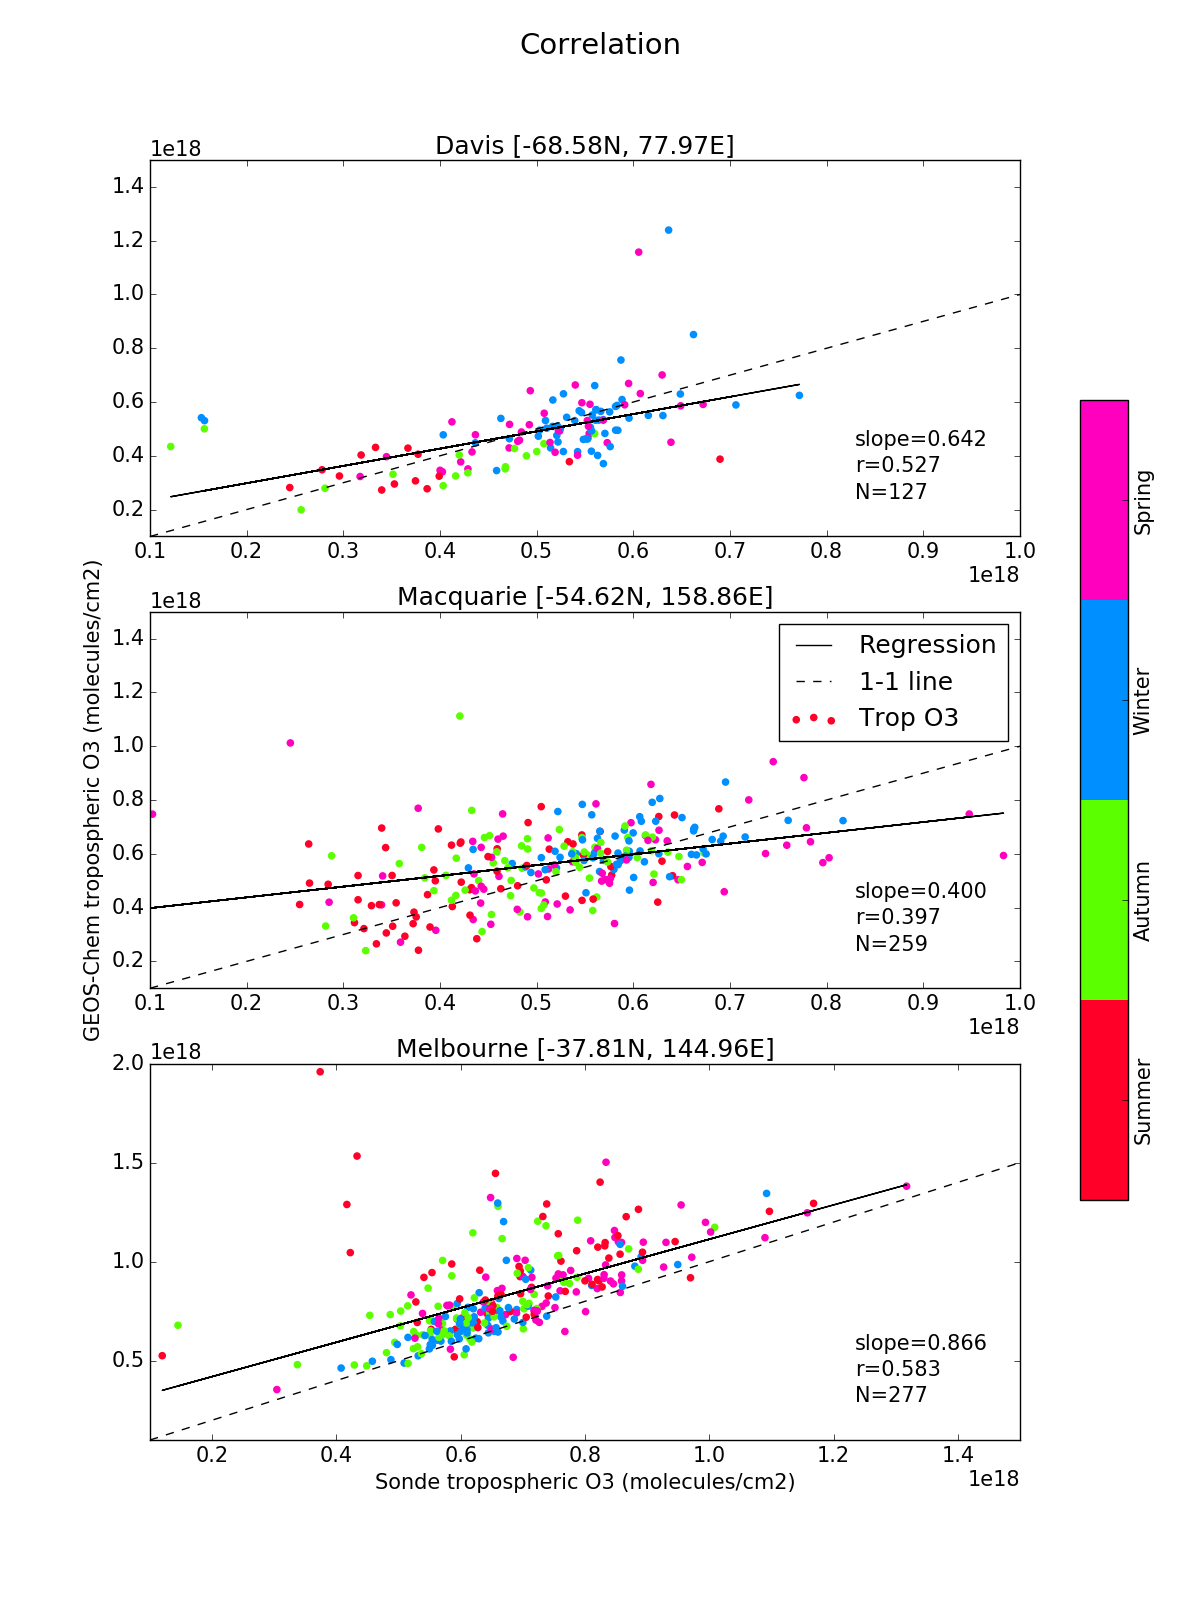
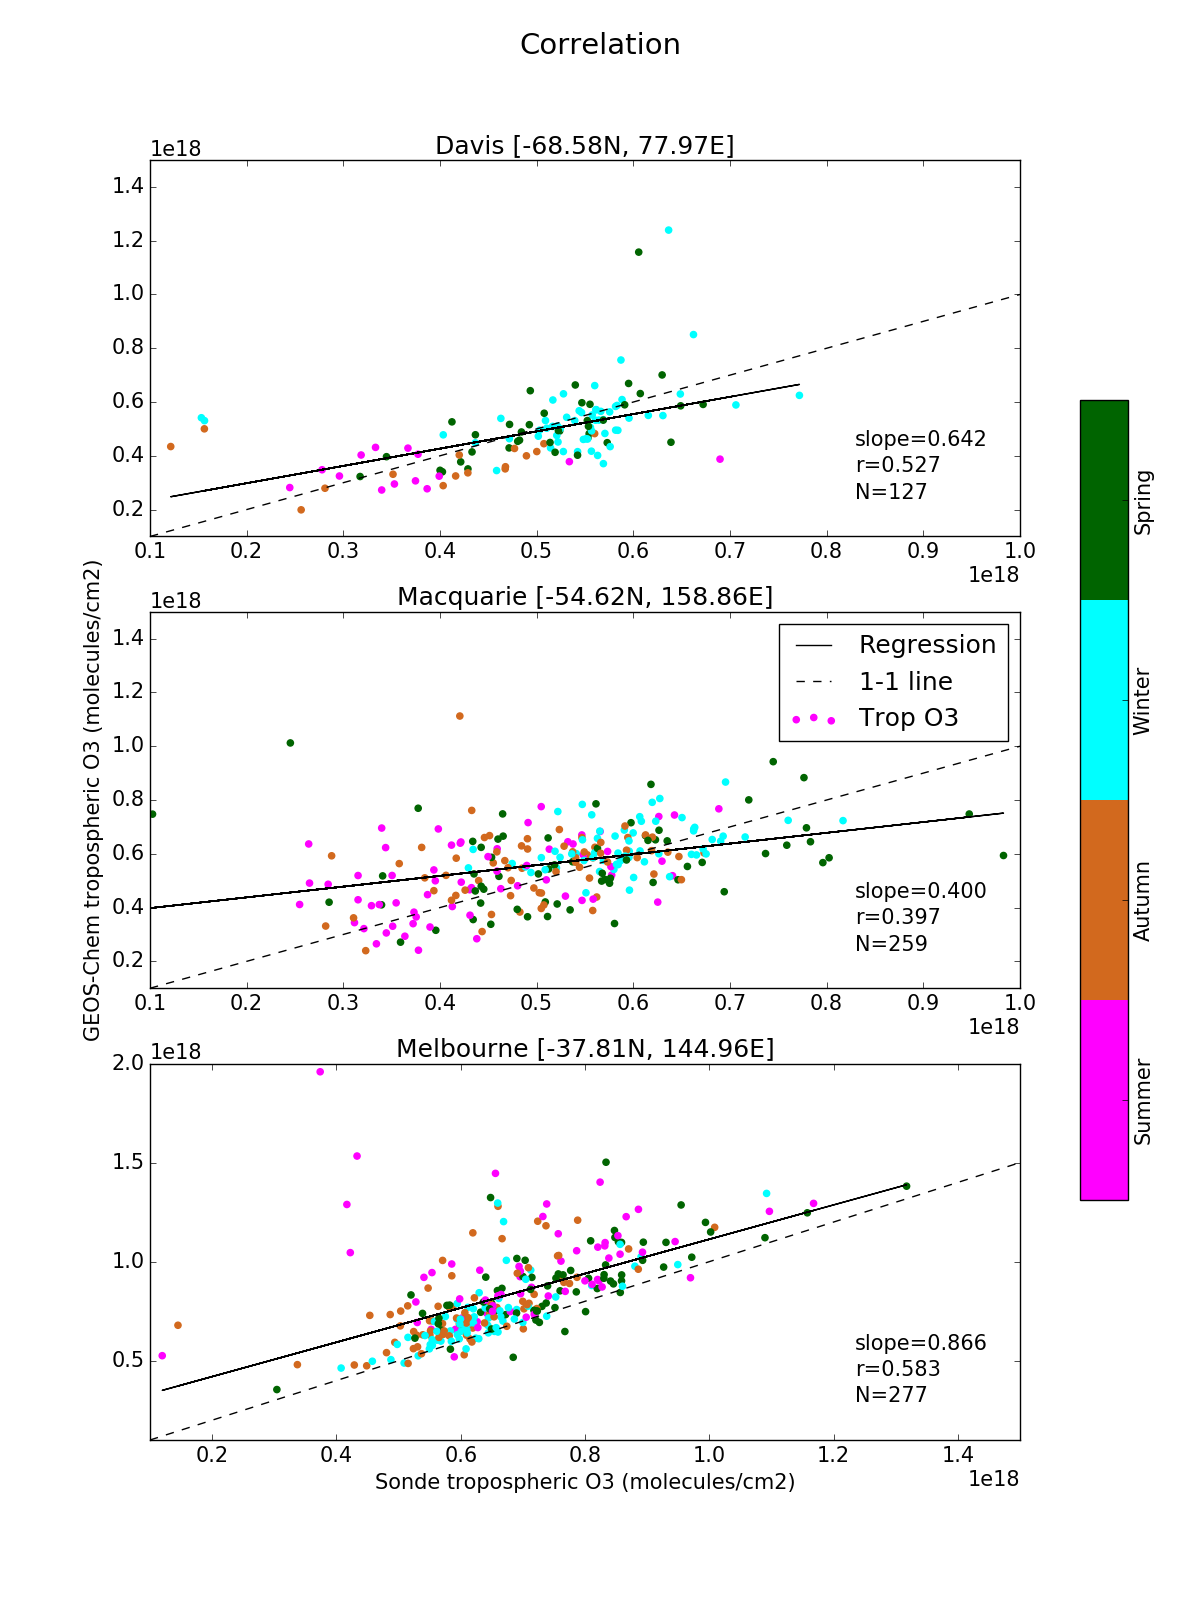
Seasonal colours corrected, monthly profiles combined for GC and Sondes

diff --git a/backup.exampine_stations.py b/backup.exampine_stations.py
@@ -21,9 +21,6 @@ import fio
 # set all fonts to 15
 matplotlib.rcParams.update({'font.size': 15})
 
-# seasonal colormap
-seasonal_cmap=matplotlib.colors.ListedColormap(['fuchsia','chocolate','cyan','darkgreen'])
-
 ###########################################################################
 #####################    Functions                         ################
 ###########################################################################
@@ -189,6 +186,7 @@ def time_series(outfile='images/StationSeries.png'):
         newylim= [1/2.69e16 * oldlim for oldlim in f3ax.get_ylim()]
         newax.set_ylim(newylim)
     
+    
     # set plot titles
     f3.suptitle('Tropospheric ozone column',fontsize=21)
     
@@ -256,11 +254,7 @@ def yearly_cycle(hour=None, outfile='images/Yearly_cycle.png'):
     print("Image saved to %s"%outfile)
     plt.close(f)
 
-###########################################################################
-#####################    Finished Functions                ################
-###########################################################################
-
-def monthly_profiles(hour=0):
+def monthly_GC_profiles(hour=None):
     '''
     Profile mean and std deviation for each month for each site
     If you only want to consider a particular hour then set the hour parameter
@@ -269,18 +263,11 @@ def monthly_profiles(hour=0):
     
     # read site data
     sites = [ fio.read_GC_station(p) for p in range(3) ]
-    o3sondes = [ fio.read_site(p) for p in range(3) ]
     
-    # some plot setups stuff
-    titles=np.array([['Dec','Jan','Feb'],['Mar','Apr','May'],['Jun','Jul','Aug'],['Sep','Oct','Nov']])
-    months=np.array([[11,0,1],[2,3,4],[5,6,7],[8,9,10]])
-    seasonalcolours=seasonal_cmap.colors
-    col={'GEOS':'black','Sonde':'maroon'} # colours for model vs sondes
     #for each station do this
-    # site,sonde=sites[1],o3sondes[1]
-    for site, sonde in zip(sites, o3sondes):
+    for site in sites:
         
-        # Set up plot axes
+        # Set up plot
         f, axes = plt.subplots(4,3, sharex=True, sharey=True, figsize=(16,16))
         axes[3,1].set_xlabel('Ozone (ppb)')
         xlim=[0,125]
@@ -291,88 +278,146 @@ def monthly_profiles(hour=0):
         
         # Grab Ozone
         O3 = site['O3']
-        s_O3 = np.array(sonde.o3ppbv)
-        
         # metres to kilometres
-        s_TP = np.array(sonde.tp) # sonde TP is already in km
         TP = site['TropopauseAltitude'] / 1000.0
         Z  = site['Altitudes']/1000.0 
-        s_Z  = np.array(sonde.gph) / 1000.0 
         Znew= np.linspace(0,14,100)
         # need to vertically bin the O3 profiles,
         # interpolated at 100 points up to 14km
         means=np.zeros([12,100])
         stds =np.zeros([12,100])
         TPm = np.zeros(12)
-        s_means=np.zeros([12,100])
-        s_stds =np.zeros([12,100])
-        s_TPm = np.zeros(12)
-        s_counts=np.zeros(12)
+        TPs = np.zeros(12)
         
         # bin data into 12 months
         allmonths=np.array([ d.month for d in site['Date'] ])
-        s_allmonths=np.array( [ d.month for d in sonde.dates ])
-        for month in range(12):
-            # find indices matching the current month
+        for month in range(12):            
             inds=np.where(allmonths == month+1)[0]
             if hour is not None:
                 allhours =np.array([ d.hour for d in site['Date'] ])
                 inds = np.where( (allmonths == month+1) * (allhours==hour) )[0]
-            s_inds=np.where(s_allmonths == month+1)[0]
-            n, s_n = len(inds), len(s_inds)
-            s_counts[month]=s_n
-            
             # each profile needs to be interpolated up to 14km
-            profs=np.zeros([n,100])
-            s_profs=np.zeros([s_n,100])
-            for i in range(n):
-                profs[i,:] = np.interp(Znew, Z[inds[i],:], O3[inds[i],:],left=np.NaN,right=np.NaN)
-            for i in range(s_n):
-                s_profs[i,:] = np.interp(Znew, s_Z[s_inds[i],:], s_O3[s_inds[i],:],left=np.NaN,right=np.NaN)
-            means[month,:]=np.nanmean(profs,axis=0)
-            stds[month,:] =np.nanstd(profs,axis=0)
-            TPm[month] = np.nanmean(TP[inds])
-            s_means[month,:]=np.nanmean(s_profs,axis=0)
-            s_stds[month,:] =np.nanstd(s_profs,axis=0)
-            s_TPm[month] = np.nanmean(s_TP[s_inds])
-            
+            profs=np.zeros([len(inds),100])
+            for i in range(len(inds)):
+                profs[i,:] = np.interp(Znew, Z[inds[i],:], O3[inds[i],:])
+            means[month,:]=np.mean(profs,axis=0)
+            stds[month,:] =np.std(profs,axis=0)
+            TPm[month] = np.mean(TP[inds])
+            TPs[month] = np.std(TP[inds])
+        
         # plot the mean profiles and shade the area of 1 stdev
+        titles=np.array([['Dec','Jan','Feb'],['Mar','Apr','May'],['Jun','Jul','Aug'],['Sep','Oct','Nov']])
+        months=np.array([[11,0,1],[2,3,4],[5,6,7],[8,9,10]])
+        # colour each season!
+        colours=['red','magenta','blue','green']
         for i in range(4):
             for j in range(3):
-                plt.sca(axes[i,j]) # set current axis
-                mind=months[i,j]
-                X=means[mind,:]                
-                Xl=X-stds[mind,:]
-                Xr=X+stds[mind,:]
-                s_X=s_means[mind,:]
-                s_Xl=s_X-s_stds[mind,:]
-                s_Xr=s_X+s_stds[mind,:]
-                
-                # plot averaged profiles + std
-                plt.plot(X, Znew , linewidth=3, color=col['GEOS'])
-                plt.fill_betweenx(Znew, Xl, Xr, alpha=0.5, color=seasonalcolours[i])
-                plt.plot(s_X, Znew , linewidth=3, color=col['Sonde'])
-                plt.fill_betweenx(Znew, s_Xl, s_Xr, alpha=0.5, color=seasonalcolours[i])
-                # plot tropopause
-                Y=TPm[mind]
-                s_Y=s_TPm[mind]
-                plt.plot(xlim, [Y, Y], '--', linewidth=2, color=col['GEOS'])
-                plt.plot(xlim, [s_Y, s_Y], '--', linewidth=2, color=col['Sonde'])
-                # plot title and text
-                plt.title(titles[i,j])
-                # add count text to upper corner
-                plt.text(.72*xlim[1], .5, "%d sondes"%s_counts[mind])
+                X=means[months[i,j],:]
+                Xl=X-stds[months[i,j],:]
+                Xr=X+stds[months[i,j],:]
+                axes[i,j].plot(X, Znew , linewidth=3, color='k')
+                axes[i,j].fill_betweenx(Znew, Xl, Xr, alpha=0.3, color=colours[i])
+                axes[i,j].set_title(titles[i,j])
+                Y=TPm[months[i,j]]
+                Ye=TPs[months[i,j]]
+                axes[i,j].plot(xlim, [Y, Y], 'k--', linewidth=2 )
+                axes[i,j].fill_between(xlim, [Y+Ye,Y+Ye], [Y-Ye,Y-Ye], alpha=0.2, color='k')
         
         # set title, and layout, then save figure
         stn_name=site['Station'].split(' ')[0]
         if hour is not None: stn_name+='_H%02d'%hour
-        f.suptitle("Monthly Averaged Profiles over "+stn_name)
-        outfile='images/eventprofiles/%s_monthprofiles.png'%stn_name
+        f.suptitle("Monthly Averaged Profiles from GEOS-Chem over "+stn_name)
+        outfile='images/eventprofiles/%s_GC_monthprofiles.png'%stn_name
         plt.tight_layout()
         plt.subplots_adjust(top=0.94)
         plt.savefig(outfile)
         print("Image saved to %s"%outfile)
         plt.close(f)
+
+def monthly_sonde_profiles():
+    '''
+    Profile mean and std deviation for each month for each site
+    '''
+    
+    # read site data
+    o3sondes = [ fio.read_site(p) for p in range(3) ]
+    
+    #for each station do this
+    for site in o3sondes:
+        
+        # Set up plot
+        f, axes = plt.subplots(4,3, sharex=True, sharey=True, figsize=(16,16))
+        axes[3,1].set_xlabel('Ozone (ppb)')
+        xlim=[0,125]
+        axes[3,1].set_xlim(xlim)
+        axes[1,0].set_ylabel('Altitude (km)')
+        ylim=[0,14]
+        axes[1,0].set_ylim(ylim)
+        
+        # Grab Ozone
+        O3 = np.array(site.o3ppbv)
+        # metres to kilometres
+        TP = np.array(site.tp) # TP is already in km
+        Z  = np.array(site.gph) / 1000.0 
+        Znew= np.linspace(0,14,100)
+        # need to vertically bin the O3 profiles,
+        # interpolated at 100 points up to 14km
+        means=np.zeros([12,100])
+        stds =np.zeros([12,100])
+        TPm = np.zeros(12)
+        TPs = np.zeros(12)
+        counts=np.zeros(12)
+        
+        # bin data into 12 months
+        allmonths=np.array([ d.month for d in site.dates ])
+        for month in range(12):
+            inds=np.where(allmonths == month+1)[0]
+            n = len(inds)
+            # each profile needs to be interpolated up to 14km
+            profs=np.zeros([n,100])
+            for i in range(n):
+                profs[i,:] = np.interp(Znew, Z[inds[i],:], O3[inds[i],:])
+            means[month,:]=np.nanmean(profs,axis=0)
+            stds[month,:] =np.nanstd(profs,axis=0)
+            TPm[month] = np.nanmean(TP[inds])
+            TPs[month] = np.nanstd(TP[inds])
+            counts[month]=n
+        
+        # plot the mean profiles and shade the area of 1 stdev
+        titles=np.array([['Dec','Jan','Feb'],['Mar','Apr','May'],['Jun','Jul','Aug'],['Sep','Oct','Nov']])
+        months=np.array([[11,0,1],[2,3,4],[5,6,7],[8,9,10]])
+        # colour each season!
+        colours=['red','magenta','blue','green']
+        for i in range(4):
+            for j in range(3):
+                plt.sca(axes[i,j]) # set current axis
+                mind=months[i,j] # which month are we plotting
+                X=means[mind,:]
+                Xl=X-stds[mind,:]
+                Xr=X+stds[mind,:]
+                plt.plot(X, Znew , linewidth=3, color='k')
+                plt.fill_betweenx(Znew, Xl, Xr, alpha=0.3, color=colours[i])
+                plt.title(titles[i,j])
+                Y=TPm[mind]
+                Ye=TPs[mind]
+                plt.plot(xlim, [Y, Y], 'k--', linewidth=2 )
+                plt.fill_between(xlim, [Y+Ye,Y+Ye], [Y-Ye,Y-Ye], alpha=0.2, color='k')
+                # add count text to upper corner
+                plt.text(.75*xlim[1], .5, "N=%d"%counts[mind])
+        
+        # set title, and layout, then save figure
+        stn_name=site.name
+        f.suptitle("Monthly averaged profiles from ozonesondes over "+stn_name)
+        outfile='images/%s_sonde_monthprofiles.png'%stn_name
+        plt.tight_layout()
+        plt.subplots_adjust(top=0.94)
+        plt.savefig(outfile)
+        print("Image saved to %s"%outfile)
+        plt.close(f)
+
+###########################################################################
+#####################    Finished Functions                ################
+###########################################################################
 
 def anomaly_correlation(outfile='images/correlations_anomalies.png'):
     '''
@@ -389,8 +434,8 @@ def anomaly_correlation(outfile='images/correlations_anomalies.png'):
     f3axes[1].set_ylabel('GEOS-Chem tropospheric O3 relative anomaly')
     ssnmap= {1:0,2:0,3:1,4:1,5:1,6:2,7:2,8:2,9:3,10:3,11:3,12:0} # map month to season:
     
-    # Use seasonal colourmap (I defined at start)
-    cmap=seasonal_cmap
+    # set up colorbar
+    cmap=plt.get_cmap('gist_rainbow', 4)
     
     # for each station do this
     # gc, os, f3ax, i = files[0], o3sondes[0], f3axes[0], range(len(files))[0]
@@ -431,6 +476,8 @@ def anomaly_correlation(outfile='images/correlations_anomalies.png'):
                     continue
                 else: 
                     ind=ind[0]
+                #print(ind, dates[ind])
+                #print(si, sdates[si])
                 #Work out anomaly and append to list
                 mind=sdate.month-1
                 Yos.append((sdata[si]-smean[mind])/smean[mind])
@@ -443,6 +490,7 @@ def anomaly_correlation(outfile='images/correlations_anomalies.png'):
         colors=cmap(season)
         f3ax.scatter(Yos, Ygc, color=colors, cmap=cmap, label='Trop O3')
         f3ax.plot(Yos, intercept+slope*Yos, 'k-', label='Regression')
+        #f3ax.plot(xlim, xlim, 'k--', label='1-1 line')
         f3ax.plot([-1,1], [-1, 1], 'k--', label='1-1 line')
         f3ax.set_title(station)
         f3ax.set_ylim(ylim)
@@ -496,8 +544,7 @@ def correlation(outfile='images/correlations.png'):
     ssnmap= {1:0,2:0,3:1,4:1,5:1,6:2,7:2,8:2,9:3,10:3,11:3,12:0} # map month to season:
     
     # set up colorbar
-    #cmap=plt.get_cmap('gist_rainbow', 4)
-    cmap=seasonal_cmap
+    cmap=plt.get_cmap('gist_rainbow', 4)
     
     # for each station do this
     # gc, os, f3ax, i = files[0], o3sondes[0], f3axes[0], range(len(files))[0]
@@ -584,9 +631,8 @@ if __name__ == "__main__":
     
     #[event_profiles(s) for s in [0,1,2]]
     #time_series()
-    #monthly_profiles()
-    #anomaly_correlation()
-    #correlation()
+    anomaly_correlation()
+    correlation()
     #yearly_cycle()
     #monthly_GC_profiles()
     #monthly_sonde_profiles()
